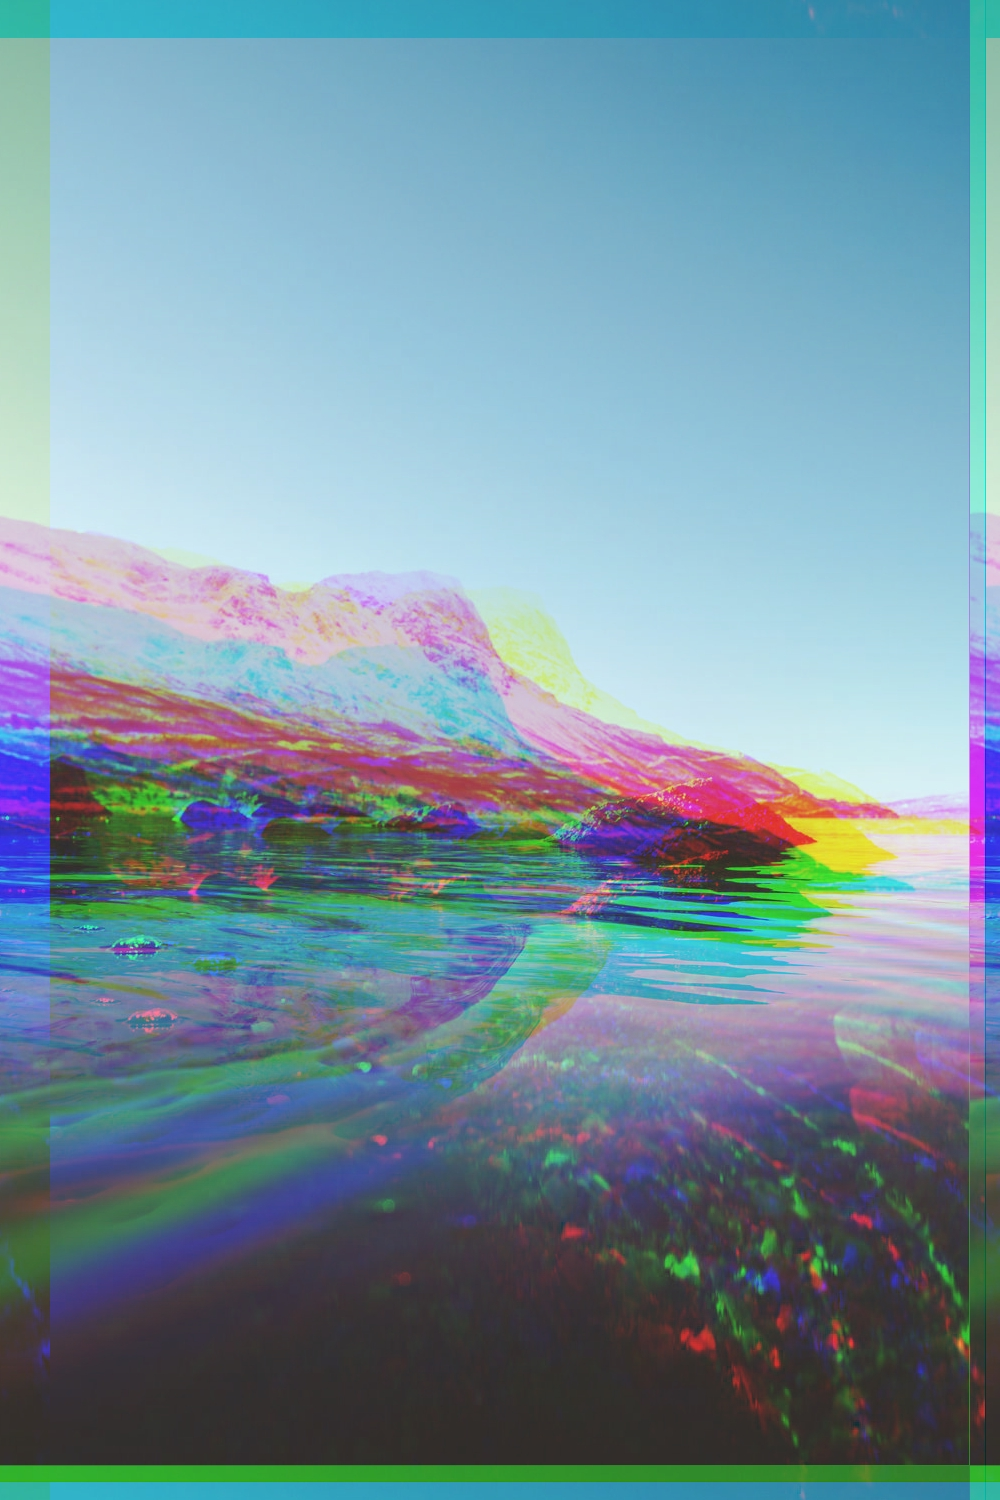
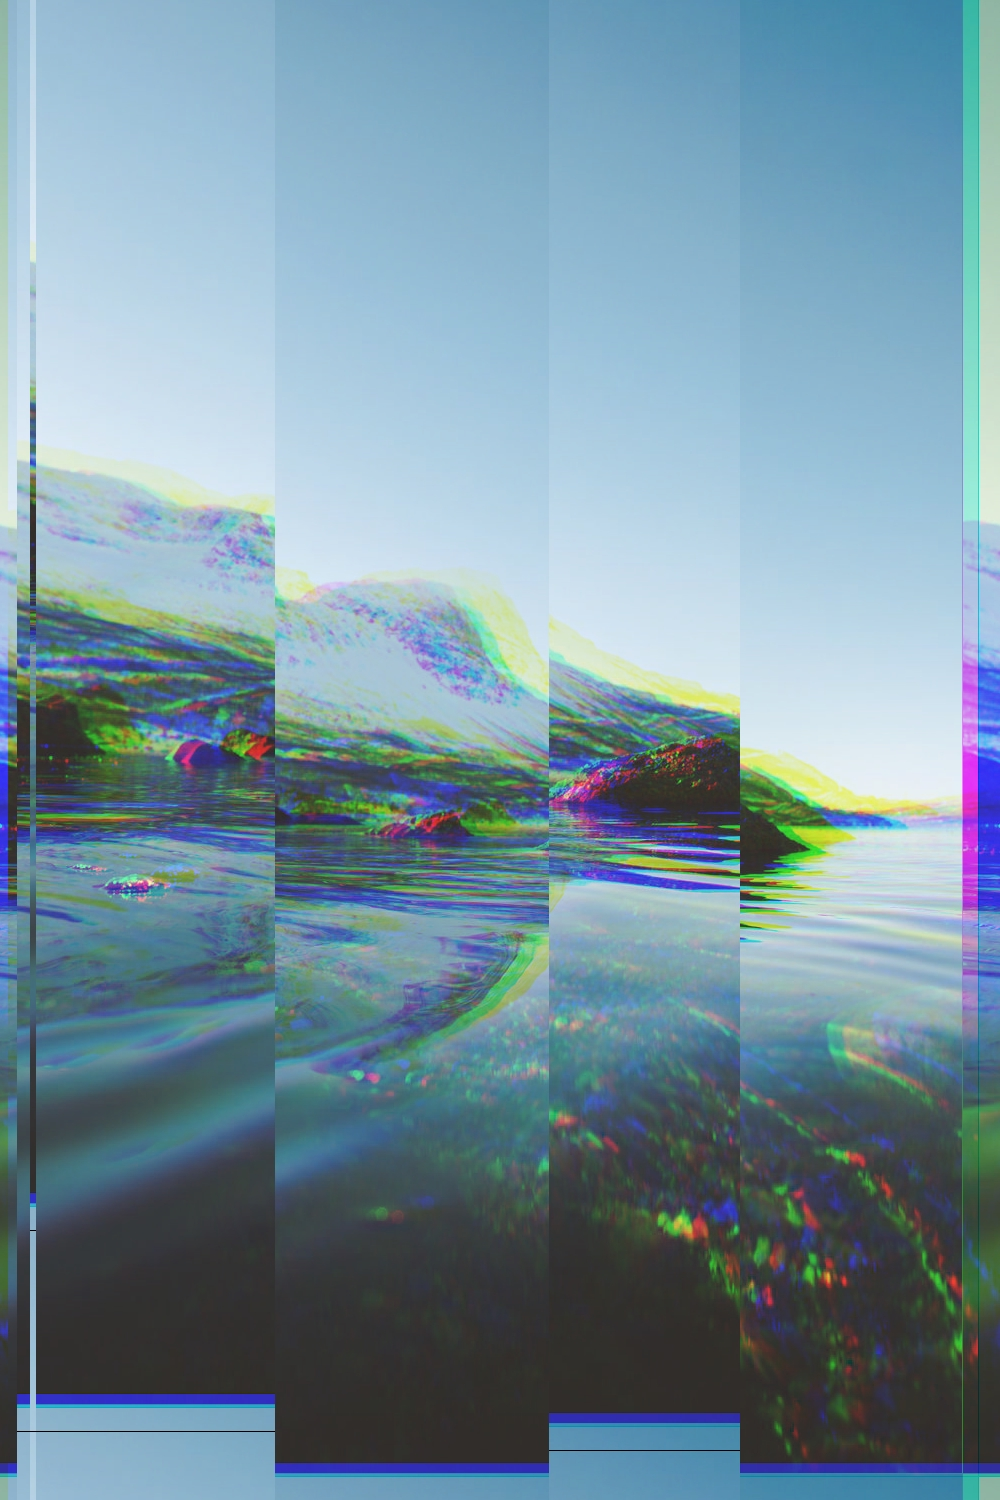
fix pixel shift

diff --git a/distorts/distorts.go b/distorts/distorts.go
@@ -63,18 +63,18 @@ func PixelShift(input image.Image) image.Image {
   bounds := input.Bounds()
   newImg := image.NewRGBA(bounds)
 
-  offsetMax := bounds.Max.X / 5
+  offsetMax := bounds.Max.Y / 5
 
-  offsetAmount := rand.Intn(offsetMax) - offsetMax / 2
-  offsetStart := rand.Intn(offsetMax)
-  offsetRange := rand.Intn(offsetMax/3)
+  offsetAmount := rand.Intn(offsetMax)
+  offsetStart := rand.Intn(bounds.Max.X)
+  offsetRange := rand.Intn(bounds.Max.X / 3)
 
   var currentPixelColor color.Color
   var r, g, b, a uint32
   for x := 0; x < bounds.Max.X; x++{
     for y := 0; y < bounds.Max.Y; y++{
-      if x <= offsetStart && x < offsetStart + offsetRange{
-        r, g, b, a = getColorsAtOffset(input, x, y, offsetAmount, 0)
+      if x >= offsetStart && x < offsetStart + offsetRange{
+        r, g, b, a = getColorsAtOffset(input, x, y, 0, offsetAmount)
       }else{
         r, g, b, a = input.At(x, y).RGBA()
       }

diff --git a/main.go b/main.go
@@ -9,6 +9,8 @@ import (
 	_ "image/png"
 	"log"
 	"os"
+	"math/rand"
+	"time"
 
 	distorts "github.com/john-pettigrew/image_distort/distorts"
 )
@@ -34,9 +36,15 @@ func main() {
 		fmt.Println(err)
 		errorAndExit("Error reading image")
 	}
+    newImg := inputImg
+	newImg = distorts.ChromaticAberation(newImg)
 
-	newImg := distorts.ChromaticAberation(inputImg)
-	newImg = distorts.PixelShift(newImg)
+
+  rand.Seed(time.Now().UTC().UnixNano())
+  shiftNum := rand.Intn(4)
+    for i := 0; i < shiftNum; i++{
+      newImg = distorts.PixelShift(newImg)
+    }
 
 	//Create output file
 	output, err := os.Create(outputPath)
